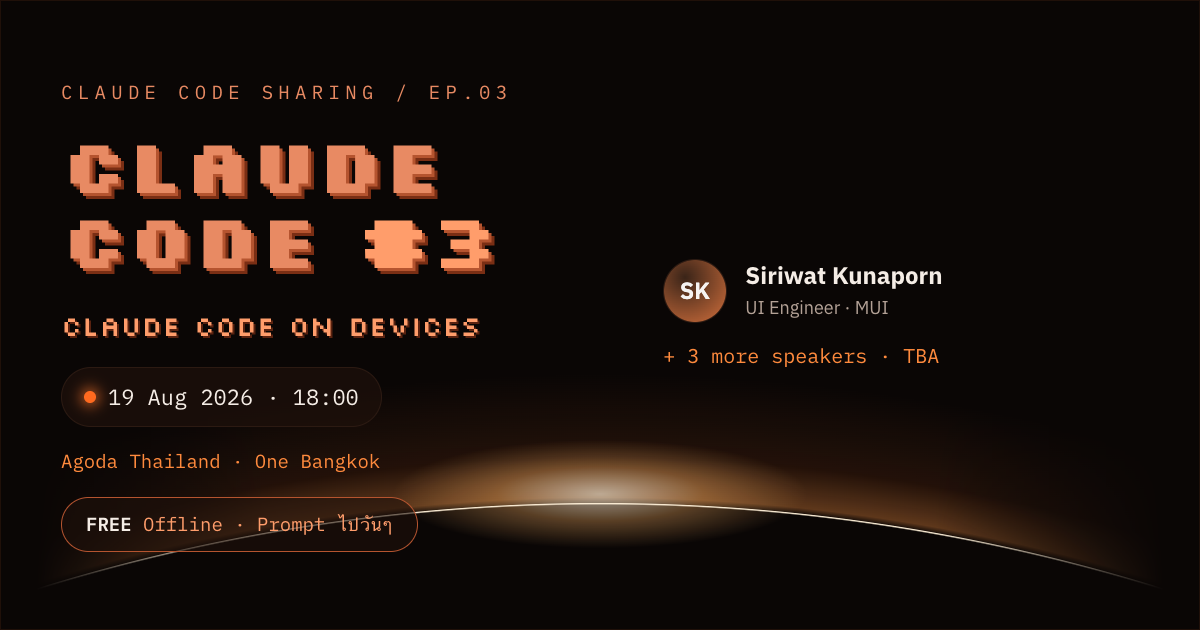
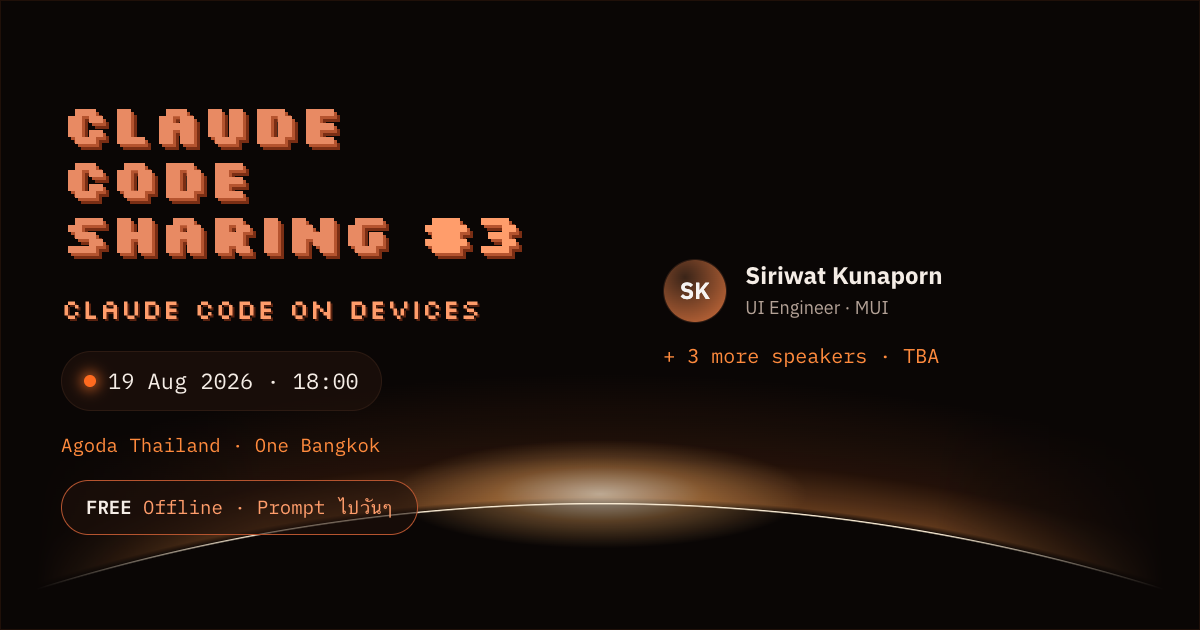
Mirror site identity onto posters: title CLAUDE CODE SHARING #3, drop EP.03 eyebrow; cache-bust css link

diff --git a/meetups/claude-code-3/styles.css b/meetups/claude-code-3/styles.css
@@ -119,7 +119,7 @@ a{color:inherit;text-decoration:none}
 .poster .light{position:absolute;inset:0;background:radial-gradient(var(--orbit-r) var(--orbit-r) at 50% calc(var(--line-y) + var(--orbit-r)),transparent calc(var(--orbit-r) - 1.6px),rgba(255,240,216,.95) calc(var(--orbit-r) - .3px),rgba(255,240,216,.95) var(--orbit-r),transparent calc(var(--orbit-r) + .9px))}
 .poster .pcontent{position:relative;z-index:2;height:100%;display:flex;flex-direction:column;padding:56px}
 .pk-eyebrow{font-family:"IBM Plex Mono",monospace;letter-spacing:.28em;font-size:19px;color:var(--coral)}
-.pk-title{font-family:"Silkscreen",monospace;font-weight:700;color:var(--coral);line-height:.98;text-shadow:3px 3px 0 var(--coral-deep),6px 6px 0 var(--coral-shadow)}
+.pk-title{font-family:"Silkscreen",monospace;font-weight:700;color:var(--coral);line-height:.98;white-space:nowrap;text-shadow:3px 3px 0 var(--coral-deep),6px 6px 0 var(--coral-shadow)}
 .pk-title .hash{color:var(--flame)}
 .pk-tag{font-family:"Silkscreen",monospace;color:var(--flame);text-shadow:2px 2px 0 rgba(122,46,20,.7)}
 .pk-date{font-family:"IBM Plex Mono",monospace;color:var(--bone);border:1px solid var(--line);background:rgba(30,16,10,.7);padding:12px 22px;border-radius:999px;display:inline-flex;align-items:center;gap:12px;width:max-content}
@@ -136,7 +136,7 @@ a{color:inherit;text-decoration:none}
 
 /* PORTRAIT mode */
 .poster[data-mode="portrait"] .pcontent{gap:30px;padding:60px}
-.poster[data-mode="portrait"] .pk-title{font-size:112px}
+.poster[data-mode="portrait"] .pk-title{font-size:80px}
 .poster[data-mode="portrait"] .pk-tag{font-size:36px;margin-top:12px}
 .poster[data-mode="portrait"] .pk-date{font-size:26px}
 .poster[data-mode="portrait"] .pk-venue{font-size:22px}
@@ -151,7 +151,7 @@ a{color:inherit;text-decoration:none}
 /* LANDSCAPE mode */
 .poster[data-mode="landscape"] .pcontent{display:grid;grid-template-columns:1.08fr .92fr;gap:44px;padding:52px 60px;align-content:center}
 .poster[data-mode="landscape"] .col{display:flex;flex-direction:column;gap:20px;justify-content:center}
-.poster[data-mode="landscape"] .pk-title{font-size:76px}
+.poster[data-mode="landscape"] .pk-title{font-size:56px}
 .poster[data-mode="landscape"] .pk-tag{font-size:28px;margin-top:8px}
 .poster[data-mode="landscape"] .pk-date{font-size:22px}
 .poster[data-mode="landscape"] .pk-venue{font-size:19px}

diff --git a/meetups/claude-code-3/index.html b/meetups/claude-code-3/index.html
@@ -13,7 +13,7 @@
 <link rel="icon" href="assets/logo.svg"/>
 <link rel="preconnect" href="https://fonts.googleapis.com"/><link rel="preconnect" href="https://fonts.gstatic.com" crossorigin/>
 <link href="https://fonts.googleapis.com/css2?family=Silkscreen:wght@400;700&family=IBM+Plex+Sans+Thai:wght@300;400;500;600;700&family=IBM+Plex+Mono:wght@400;500;600&display=swap" rel="stylesheet"/>
-<link rel="stylesheet" href="styles.css"/>
+<link rel="stylesheet" href="styles.css?v=2"/>
 </head>
 <body>
 <a class="skip" href="#main">Skip to content</a>
@@ -165,16 +165,16 @@
       +'<div class="pk-more">+ 3 more speakers · TBA</div></div>';
   }
   var PORTRAIT=function(){return ''
-    +'<p class="pk-eyebrow">CLAUDE CODE SHARING / EP.03</p>'
-    +'<div><div class="pk-title">CLAUDE<br>CODE <span class="hash">#3</span></div><div class="pk-tag">Claude Code on Devices</div></div>'
+    +''
+    +'<div><div class="pk-title">CLAUDE<br>CODE<br>SHARING <span class="hash">#3</span></div><div class="pk-tag">Claude Code on Devices</div></div>'
     +'<div class="pk-date"><span class="dot"></span>19 Aug 2026 · 18:00</div>'
     +'<div class="pk-venue">Agoda Thailand · One Bangkok</div>'
     +speakers("portrait")
     +'<div class="pk-foot"><div class="pk-orga">organized by <b>Prompt ไปวันๆ</b></div><div class="pk-badge"><b>FREE</b> Offline</div></div>';};
   var LANDSCAPE=function(){return ''
     +'<div class="col">'
-      +'<p class="pk-eyebrow">CLAUDE CODE SHARING / EP.03</p>'
-      +'<div class="pk-title">CLAUDE<br>CODE <span class="hash">#3</span></div>'
+      +''
+      +'<div class="pk-title">CLAUDE<br>CODE<br>SHARING <span class="hash">#3</span></div>'
       +'<div class="pk-tag">Claude Code on Devices</div>'
       +'<div class="pk-date"><span class="dot"></span>19 Aug 2026 · 18:00</div>'
       +'<div class="pk-venue">Agoda Thailand · One Bangkok</div>'
